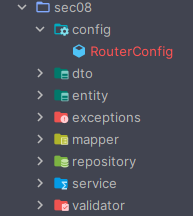
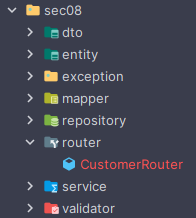
Router Configuration

diff --git a/projects/webflux-playground/src/main/java/dev/magadiflo/app/sec08/service/impl/CustomerServiceImpl.java b/projects/webflux-playground/src/main/java/dev/magadiflo/app/sec08/service/impl/CustomerServiceImpl.java
@@ -1,0 +1,83 @@
+package dev.magadiflo.app.sec08.service.impl;
+
+import dev.magadiflo.app.sec08.dto.CustomerRequest;
+import dev.magadiflo.app.sec08.dto.CustomerResponse;
+import dev.magadiflo.app.sec08.entity.Customer;
+import dev.magadiflo.app.sec08.exception.CustomerErrors;
+import dev.magadiflo.app.sec08.mapper.CustomerMapper;
+import dev.magadiflo.app.sec08.repository.CustomerRepository;
+import dev.magadiflo.app.sec08.service.CustomerService;
+import lombok.RequiredArgsConstructor;
+import lombok.extern.slf4j.Slf4j;
+import org.springframework.data.domain.Page;
+import org.springframework.data.domain.PageImpl;
+import org.springframework.data.domain.PageRequest;
+import org.springframework.data.domain.Pageable;
+import org.springframework.stereotype.Service;
+import reactor.core.publisher.Flux;
+import reactor.core.publisher.Mono;
+
+@Slf4j
+@RequiredArgsConstructor
+@Service
+public class CustomerServiceImpl implements CustomerService {
+
+    private final CustomerRepository customerRepository;
+    private final CustomerMapper customerMapper;
+
+    @Override
+    public Flux<CustomerResponse> getAllCustomers() {
+        return this.customerRepository.findAll()
+                .map(this.customerMapper::toCustomerResponse);
+    }
+
+    @Override
+    public Flux<CustomerResponse> getAllCustomers(int pageNumber, int pageSize) {
+        return this.customerRepository.findBy(PageRequest.of(pageNumber, pageSize))
+                .map(this.customerMapper::toCustomerResponse);
+    }
+
+    @Override
+    public Mono<Page<CustomerResponse>> getAllCustomers(Pageable pageable) {
+        return this.customerRepository.findBy(pageable)
+                .map(this.customerMapper::toCustomerResponse)
+                .collectList()
+                .zipWith(
+                        this.customerRepository.count(),
+                        (customerResponseList, total) -> new PageImpl<>(customerResponseList, pageable, total)
+                );
+    }
+
+    @Override
+    public Mono<CustomerResponse> getCustomer(Long customerId) {
+        return this.findCustomerOrThrow(customerId)
+                .map(this.customerMapper::toCustomerResponse);
+    }
+
+    @Override
+    public Mono<CustomerResponse> saveCustomer(CustomerRequest customerRequest) {
+        return Mono.just(customerRequest)
+                .map(this.customerMapper::toCustomer)
+                .flatMap(this.customerRepository::save)
+                .map(this.customerMapper::toCustomerResponse);
+    }
+
+    @Override
+    public Mono<CustomerResponse> updateCustomer(Long customerId, CustomerRequest customerRequest) {
+        return this.findCustomerOrThrow(customerId)
+                .map(customer -> this.customerMapper.toCustomerUpdate(customer, customerRequest))
+                .flatMap(this.customerRepository::save)
+                .map(this.customerMapper::toCustomerResponse);
+    }
+
+    @Override
+    public Mono<Void> deleteCustomer(Long customerId) {
+        return this.findCustomerOrThrow(customerId)
+                .flatMap(customer -> this.customerRepository.deleteById(customerId));
+    }
+
+    private Mono<Customer> findCustomerOrThrow(Long customerId) {
+        return this.customerRepository.findById(customerId)
+                .switchIfEmpty(CustomerErrors.customerNotFound(customerId));
+    }
+}

diff --git a/projects/webflux-playground/src/main/java/dev/magadiflo/app/sec08/validator/CustomerValidator.java b/projects/webflux-playground/src/main/java/dev/magadiflo/app/sec08/validator/CustomerValidator.java
@@ -1,0 +1,37 @@
+package dev.magadiflo.app.sec08.validator;
+
+import dev.magadiflo.app.sec08.dto.CustomerRequest;
+import dev.magadiflo.app.sec08.exception.CustomerErrors;
+import lombok.experimental.UtilityClass;
+import reactor.core.publisher.Mono;
+
+import java.util.Objects;
+import java.util.function.Predicate;
+import java.util.function.UnaryOperator;
+import java.util.regex.Pattern;
+
+@UtilityClass
+public class CustomerValidator {
+    private static final Pattern EMAIL_PATTERN = Pattern.compile("^[A-Za-z0-9+_.-]+@[A-Za-z0-9.-]+$");
+
+    public static UnaryOperator<Mono<CustomerRequest>> validate() {
+        return customerRequestMono -> customerRequestMono
+                .filter(hasName())
+                .switchIfEmpty(CustomerErrors.missingName())
+                .filter(hasValidEmail())
+                .switchIfEmpty(CustomerErrors.missingValidEmail());
+    }
+
+    private static Predicate<CustomerRequest> hasName() {
+        return customerRequest -> hasText(customerRequest.name());
+    }
+
+    private static Predicate<CustomerRequest> hasValidEmail() {
+        return customerRequest -> hasText(customerRequest.email())
+                                  && EMAIL_PATTERN.matcher(customerRequest.email()).matches();
+    }
+
+    private static boolean hasText(String value) {
+        return Objects.nonNull(value) && !value.isBlank();
+    }
+}

diff --git a/projects/webflux-playground/src/main/java/dev/magadiflo/app/sec08/mapper/CustomerMapper.java b/projects/webflux-playground/src/main/java/dev/magadiflo/app/sec08/mapper/CustomerMapper.java
@@ -1,0 +1,31 @@
+package dev.magadiflo.app.sec08.mapper;
+
+import dev.magadiflo.app.sec08.dto.CustomerRequest;
+import dev.magadiflo.app.sec08.dto.CustomerResponse;
+import dev.magadiflo.app.sec08.entity.Customer;
+import org.springframework.stereotype.Component;
+
+@Component
+public class CustomerMapper {
+
+    public Customer toCustomer(CustomerRequest request) {
+        return Customer.builder()
+                .name(request.name())
+                .email(request.email())
+                .build();
+    }
+
+    public Customer toCustomerUpdate(Customer customer, CustomerRequest request) {
+        customer.setName(request.name());
+        customer.setEmail(request.email());
+        return customer;
+    }
+
+    public CustomerResponse toCustomerResponse(Customer customer) {
+        return new CustomerResponse(
+                customer.getId(),
+                customer.getName(),
+                customer.getEmail()
+        );
+    }
+}

diff --git a/projects/webflux-playground/src/main/java/dev/magadiflo/app/sec08/service/CustomerService.java b/projects/webflux-playground/src/main/java/dev/magadiflo/app/sec08/service/CustomerService.java
@@ -1,0 +1,24 @@
+package dev.magadiflo.app.sec08.service;
+
+import dev.magadiflo.app.sec08.dto.CustomerRequest;
+import dev.magadiflo.app.sec08.dto.CustomerResponse;
+import org.springframework.data.domain.Page;
+import org.springframework.data.domain.Pageable;
+import reactor.core.publisher.Flux;
+import reactor.core.publisher.Mono;
+
+public interface CustomerService {
+    Flux<CustomerResponse> getAllCustomers();
+
+    Flux<CustomerResponse> getAllCustomers(int pageNumber, int pageSize);
+
+    Mono<Page<CustomerResponse>> getAllCustomers(Pageable pageable);
+
+    Mono<CustomerResponse> getCustomer(Long customerId);
+
+    Mono<CustomerResponse> saveCustomer(CustomerRequest customerRequest);
+
+    Mono<CustomerResponse> updateCustomer(Long customerId, CustomerRequest customerRequest);
+
+    Mono<Void> deleteCustomer(Long customerId);
+}

diff --git a/projects/webflux-playground/src/main/java/dev/magadiflo/app/sec08/repository/CustomerRepository.java b/projects/webflux-playground/src/main/java/dev/magadiflo/app/sec08/repository/CustomerRepository.java
@@ -1,0 +1,17 @@
+package dev.magadiflo.app.sec08.repository;
+
+import dev.magadiflo.app.sec08.entity.Customer;
+import org.springframework.data.domain.Pageable;
+import org.springframework.data.r2dbc.repository.Modifying;
+import org.springframework.data.r2dbc.repository.Query;
+import org.springframework.data.repository.reactive.ReactiveCrudRepository;
+import reactor.core.publisher.Flux;
+import reactor.core.publisher.Mono;
+
+public interface CustomerRepository extends ReactiveCrudRepository<Customer, Long> {
+    @Modifying
+    @Query("DELETE FROM customers WHERE id = :customerId")
+    Mono<Boolean> deleteCustomerById(Long customerId);
+
+    Flux<Customer> findBy(Pageable pageable);
+}

diff --git a/projects/webflux-playground/src/main/java/dev/magadiflo/app/sec08/exception/CustomerErrors.java b/projects/webflux-playground/src/main/java/dev/magadiflo/app/sec08/exception/CustomerErrors.java
@@ -1,0 +1,19 @@
+package dev.magadiflo.app.sec08.exception;
+
+import lombok.experimental.UtilityClass;
+import reactor.core.publisher.Mono;
+
+@UtilityClass
+public class CustomerErrors {
+    public static <T> Mono<T> customerNotFound(Long customerId) {
+        return Mono.error(() -> new CustomerNotFoundException(customerId));
+    }
+
+    public static <T> Mono<T> missingName() {
+        return Mono.error(() -> new InvalidInputException("El nombre es requerido"));
+    }
+
+    public static <T> Mono<T> missingValidEmail() {
+        return Mono.error(() -> new InvalidInputException("Se requiere un correo electrónico válido"));
+    }
+}

diff --git a/projects/webflux-playground/src/main/java/dev/magadiflo/app/sec08/router/CustomerRouter.java b/projects/webflux-playground/src/main/java/dev/magadiflo/app/sec08/router/CustomerRouter.java
@@ -1,0 +1,14 @@
+package dev.magadiflo.app.sec08.router;
+
+import org.springframework.context.annotation.Bean;
+import org.springframework.context.annotation.Configuration;
+import org.springframework.web.reactive.function.server.RouterFunction;
+import org.springframework.web.reactive.function.server.ServerResponse;
+
+@Configuration
+public class CustomerRouter {
+    @Bean
+    public RouterFunction<ServerResponse> customerRoutes() {
+        return null;
+    }
+}

diff --git a/projects/webflux-playground/src/main/java/dev/magadiflo/app/sec08/entity/Customer.java b/projects/webflux-playground/src/main/java/dev/magadiflo/app/sec08/entity/Customer.java
@@ -1,0 +1,19 @@
+package dev.magadiflo.app.sec08.entity;
+
+import lombok.*;
+import org.springframework.data.annotation.Id;
+import org.springframework.data.relational.core.mapping.Table;
+
+@ToString
+@AllArgsConstructor
+@NoArgsConstructor
+@Builder
+@Setter
+@Getter
+@Table(name = "customers")
+public class Customer {
+    @Id
+    private Long id;
+    private String name;
+    private String email;
+}

diff --git a/projects/webflux-playground/src/main/java/dev/magadiflo/app/sec08/exception/CustomerNotFoundException.java b/projects/webflux-playground/src/main/java/dev/magadiflo/app/sec08/exception/CustomerNotFoundException.java
@@ -1,0 +1,9 @@
+package dev.magadiflo.app.sec08.exception;
+
+public class CustomerNotFoundException extends RuntimeException {
+    private static final String MESSAGE = "Cliente con id [%d] no se encuentra";
+
+    public CustomerNotFoundException(Long customerId) {
+        super(MESSAGE.formatted(customerId));
+    }
+}

diff --git a/projects/webflux-playground/src/main/java/dev/magadiflo/app/sec08/exception/InvalidInputException.java b/projects/webflux-playground/src/main/java/dev/magadiflo/app/sec08/exception/InvalidInputException.java
@@ -1,0 +1,7 @@
+package dev.magadiflo.app.sec08.exception;
+
+public class InvalidInputException extends RuntimeException {
+    public InvalidInputException(String message) {
+        super(message);
+    }
+}

diff --git a/projects/webflux-playground/src/main/java/dev/magadiflo/app/sec08/dto/CustomerResponse.java b/projects/webflux-playground/src/main/java/dev/magadiflo/app/sec08/dto/CustomerResponse.java
@@ -1,0 +1,6 @@
+package dev.magadiflo.app.sec08.dto;
+
+public record CustomerResponse(Long id,
+                               String name,
+                               String email) {
+}

diff --git a/projects/webflux-playground/src/main/java/dev/magadiflo/app/sec08/dto/CustomerRequest.java b/projects/webflux-playground/src/main/java/dev/magadiflo/app/sec08/dto/CustomerRequest.java
@@ -1,0 +1,5 @@
+package dev.magadiflo.app.sec08.dto;
+
+public record CustomerRequest(String name,
+                              String email) {
+}
